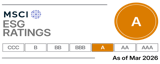
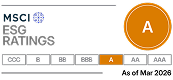
esg

diff --git a/tw/esg_recognition_n_milestone.html b/tw/esg_recognition_n_milestone.html
@@ -278,13 +278,15 @@
                       <img src="../img/illust/illust__esg-recognition-n-milestone__awards-2026yr-01.png" alt="">
                   </li>
                   <li>
-                      <span>「第12屆公司治理評鑑前6%~20%」</span>
+                      <span>第12屆公司治理評鑑前6%~20%</span>
                   </li>
                   <li>
                       <span>榮獲2026年全球百大創新機構</span>
+
+                      <img src="../img/illust/illust__esg-recognition-n-milestone__awards-2026yr-07.png" alt="">
                   </li>
                   <li>
-                      <span>入選道瓊永續指數「世界指數」</span>
+                      <span>入選道瓊領先 「世界指數」成分股</span>
 
                       <img src="../img/illust/illust__esg-recognition-n-milestone__awards-2026yr-04.png" alt="">
                   </li>
@@ -297,6 +299,7 @@
                       <span>MSCI ESG「A」評級</span>
 
                       <img src="../img/illust/illust__esg-recognition-n-milestone__awards-2026yr-03.png" alt="">
+                      <a href="https://www.nanya.com/Files/2389" target="_blank" style="display:block; color:#888; font-size:14px; margin-top:8px;">免責聲明</a>
                   </li>
                   <li>
                       <span>Sustainalytics ESG 評鑑 20.92 (中等風險評級)</span>

diff --git a/en/esg_recognition_n_milestone.html b/en/esg_recognition_n_milestone.html
@@ -282,6 +282,8 @@
                   </li>
                   <li>
                       <span>Recognized as Top 100 Global Innovator 2026</span>
+
+                      <img src="../img/illust/illust__esg-recognition-n-milestone__awards-2026yr-07.png" alt="">
                   </li>
                   <li>
                       <span>Included into Dow Jones Sustainability World Index</span>
@@ -297,6 +299,7 @@
                       <span>MSCI ESG 'A' Rating</span>
 
                       <img src="../img/illust/illust__esg-recognition-n-milestone__awards-2026yr-03.png" alt="">
+                      <a href="https://www.nanya.com/Files/2389" target="_blank" style="display:block; color:#888; font-size:14px; margin-top:8px;">Disclaimer</a>
                   </li>
                   <li>
                       <span>Sustainalytics ESG Rating 20.92 (Medium Risk)</span>